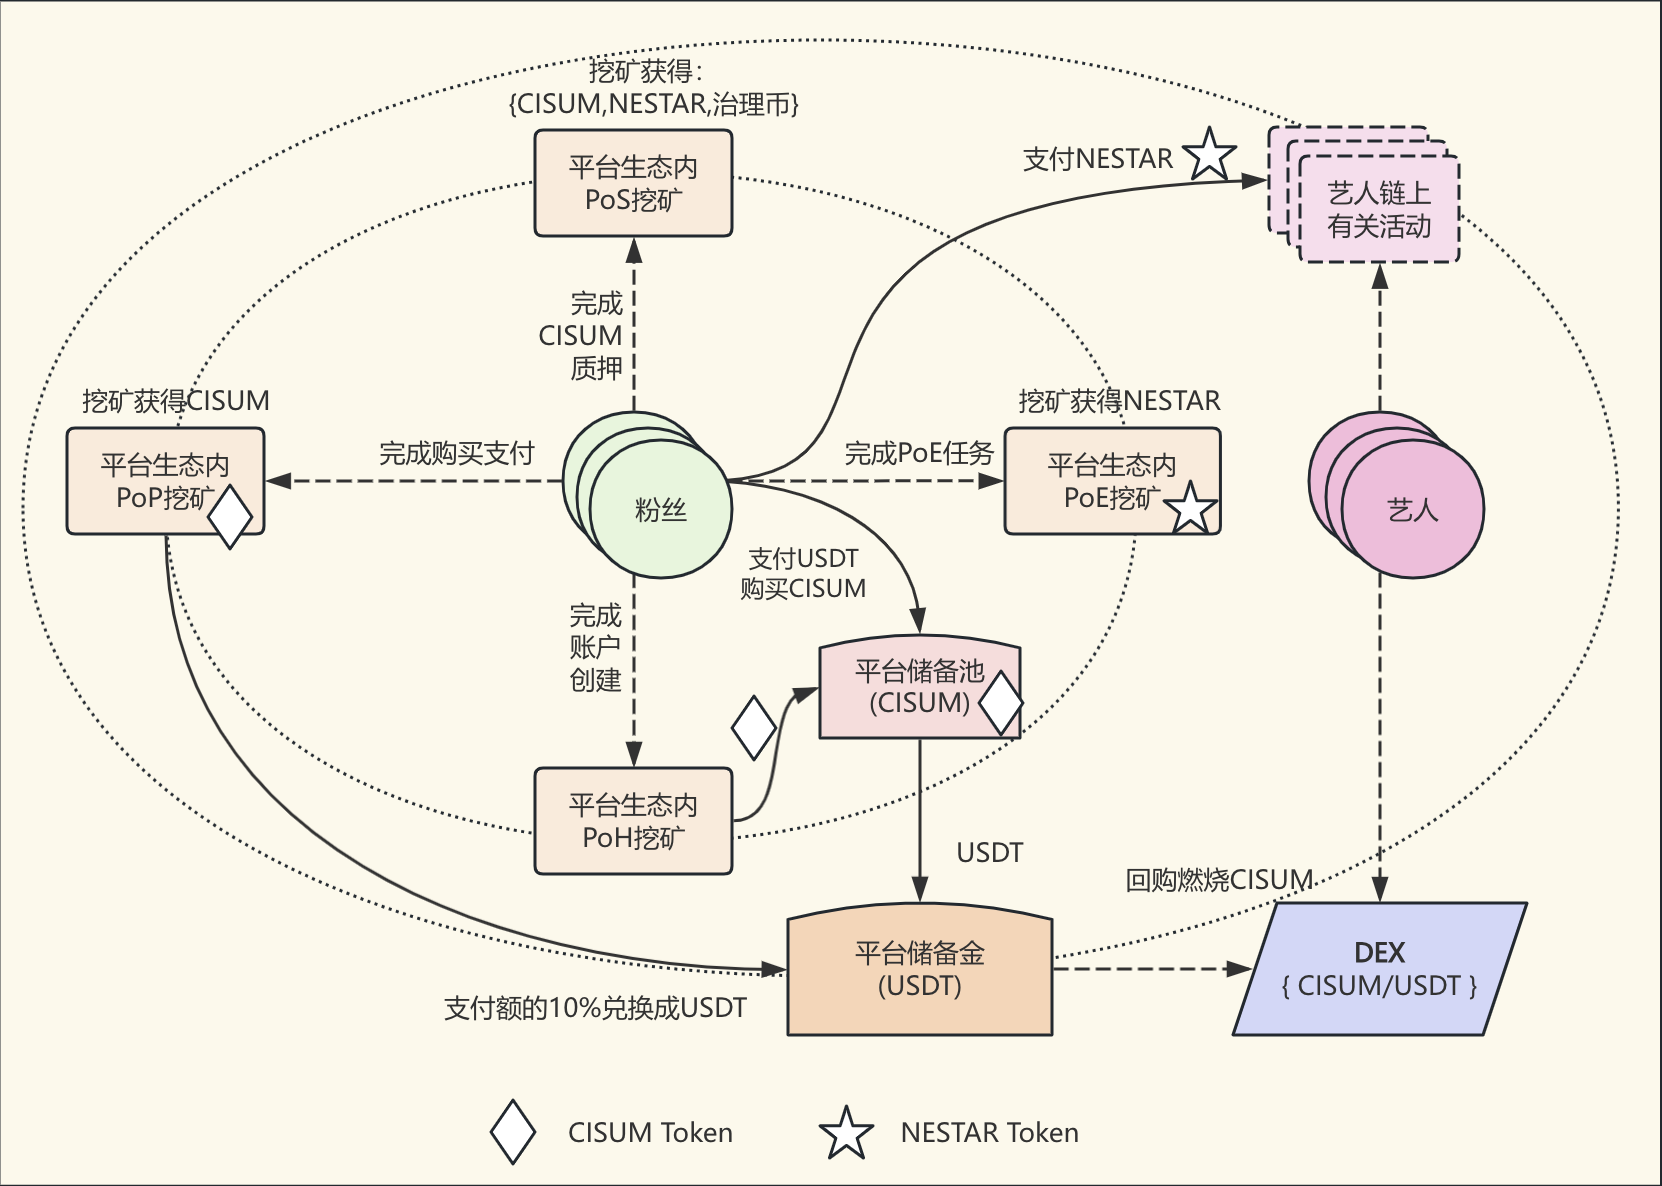
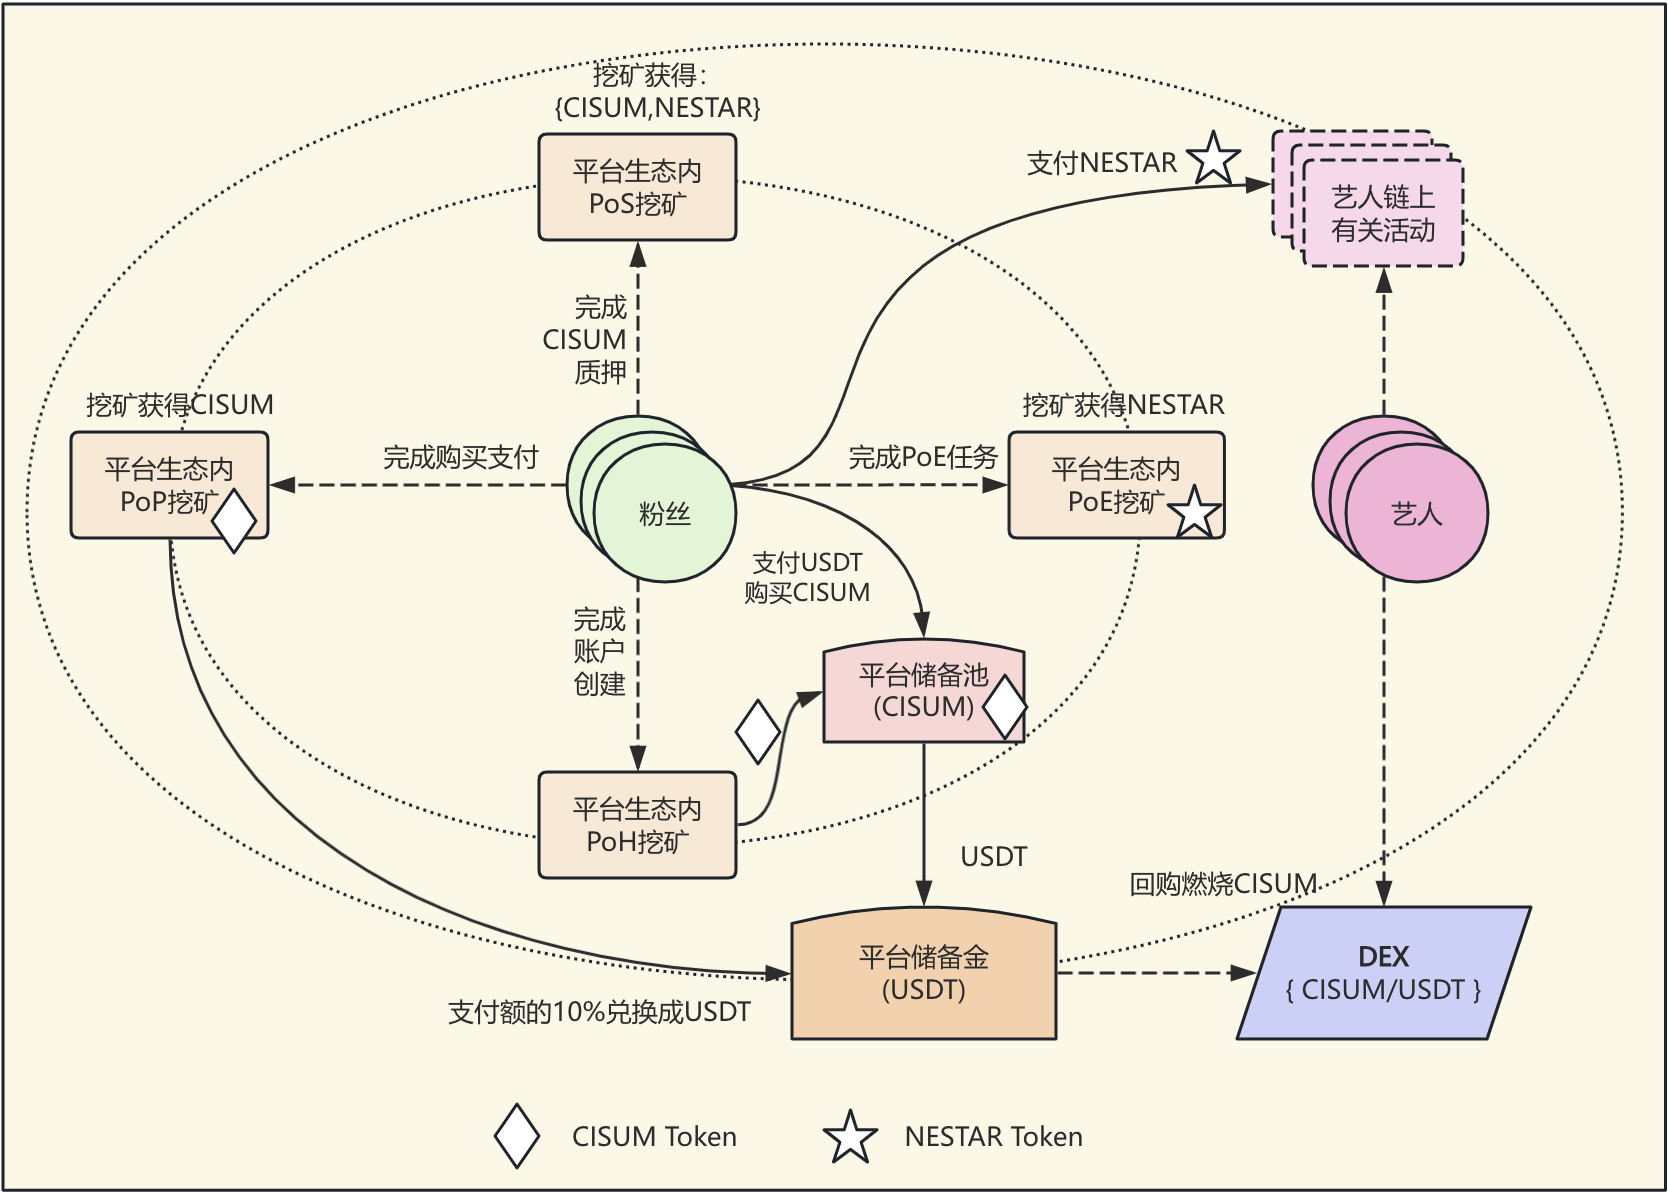
refine CN WP

diff --git a/cisum.whitepaper.cn.md b/cisum.whitepaper.cn.md
@@ -27,46 +27,42 @@
 - `重建藝人歸屬感`：通過簽約藝人模式，建立平台與藝人的深度綁定關係;
 - `增強粉絲粘性`：通過多元化互動和收益分享，提升粉絲對平台的忠誠度;
 - `多元化收益模式`：整合訂閱、廣告、周邊、演出等多種收入來源;
-- `實用價值支撐`：基於實際收入的 `10%` 綁定機制，確保代幣價值有實際支撐;
+- `實用價值支撐`：基於實際收入部分的綁定機制，確保代幣價值有實際支撐;
 
-核心流程包括藝人發現與選拔（web2 方法 + AI 分析）、藝人培養與發展（投融資 + 培訓 + 線下巡演 + RWA)、明星成就與商業化（全球巡演 + 品牌合作 + 周邊產品銷售）、數字巨星與元宇宙擴展（IP RWA + 虛擬演唱會 + 鏈遊）。
+核心流程包括藝人發現與選拔（web2 方法 + AI 分析）、藝人培養與發展（投融資 + 培訓 + 線下巡演 + RWA）、明星成就與商業化（全球巡演 + 品牌合作 + 周邊產品銷售）、數字巨星與元宇宙擴展（IP RWA + 虛擬演唱會 + 鏈遊）。
 
 ## 1.3 CISUM的三大核心策略
 
 **CISUM** 利用 Web3 與 AI 技術，通過三大核心策略賦能年輕藝術家實現明星夢想：
 
-1. **萬物代幣化**
+1. **萬物皆可代幣化**
 
 | 代幣       | 類型 | 使用/權益/收益                     | 獲取方式                     |
 |------------|------|------------------------------------|-----------------------------|
-| `CISUM`    | FT   | 平台級代幣，用於激勵生態系統貢獻者和支持者 | 通過私募或去中心化/中心化交易所 |
-| `NESTAR`   | NFT  | 用作在服務/內容/產品消費的信用點數，可參訪搶免費門票 | 通過質押 CISUM 鑄造或參與 `PoE` 活動 |
+| `CISUM`    | FT   | 平台級代幣，用於激勵生態系統貢獻者和支持者 | 通過参与私募或`PoH` |
+| `NESTAR`   | FT  | 用作在服務/內容/產品消費的積分，可參訪搶免費門票 | 通過質押 CISUM 鑄造或參與 `PoE` 活動 |
 | `Badge NFTs`| NFT  | 以 `普通`/`銀級`/`金級`/`白金` 等徽章類型表示會員等級 | 當消耗的 `NESTAR` 數量達到指定水平時可領取 |
 | `Ticket NFTs`| NFT | 每場演出擁有獨特的門票 NFT 集合 | 通過搶票活動或直接購買獲得 |
 
-2. **萬物挖礦**
+2. **萬物皆可挖礦**
 
-**CISUM** 通過 Web3 提供多種挖礦機制，使用戶能夠獲得獎勵。從帳戶創建到參與、支付和質押，每項活動都以 `CISUM` 或 `STAR` 代幣形式創造價值，為藝術家和粉絲建構一個充滿活力的生態系統。
+**CISUM** 通過 Web3 提供多種挖礦機制，使用戶能夠獲得獎勵。從帳戶創建到參與、支付和質押，每項活動都以 `CISUM` 或 `NESTAR` 代幣形式創造價值，為藝術家和粉絲建構一個充滿活力的生態系統。
 
 | 挖礦類型             | 描述                                                           |
 |-----------------------|-------------------------------------------------------------|
-| `PoH`：註冊證明      | 每個新帳戶註冊將新鑄造價值 一定金额 的 `CISUM` 代幣和 100 個 `NESTAR` 積分     |
-| `PoE`：參與證明      | 參與藝術家或項目互動活動以挖掘 `NESTAR` 代幣                         |
-| `PoP`：支付證明      | 付款者將獲得相當於支付金額 `10%` 的新鑄造 `CISUM` 代幣                |
-| `PoS`：質押證明      | `CISUM` 代幣質押者將根據選定的鎖定期間獲得固定年化收益率的利息獎勵，獎勵為新鑄造的 `CISUM` 代幣或 Nestar 積分 |
+| `PoH`：註冊證明      | 每個新帳戶註冊將新鑄造價值`$20`美金的 `CISUM` 代幣放入`平台儲備池`提供給生態用戶購買取得，和100个 `NESTAR` 積分直接獎勵給新用戶 |
+| `PoE`：參與證明      | 參與藝術家或項目互動活動以挖掘 `CISUM` 和 `NESTAR` 代幣                         |
+| `PoP`：支付證明      | 付款者將獲得相當於支付金額的`10%`同等价值换算成相应数量 `CISUM` 代幣                |
+| `PoS`：質押證明      | `CISUM` 代幣質押者將根據選定的鎖定期間獲得固定年化收益率的利息獎勵，獎勵為生態挖礦份額內的 `CISUM` 代幣或 `NESTAR` 積分 |
 
 > [!NOTE]
-> 範例 PoE 活動包括但不限於以下內容：
->  - 每日簽到藝術家社群
->  - 邀請他人加入藝術家社群
->  - 在社交媒體上發布/分享藝術家活動
->  - 播放藝術家音樂
->  - 與他人分享藝術家音樂
->  - 購買藝術家相關產品
+> 1. PoH 的註冊是採用了 `FullOn` 公鏈上部具體 `RWID` 技術，也就是綁定了手機或其它社交因子的鏈上帳戶，用來簡化用戶帳戶創建和確保是真實用戶綁定了鏈上帳戶，這樣可以有效避免女巫攻擊而產生的隨意釋放；
+> 2. `$20`美金換算`CISUM`的數量根據平台在FullOn公鏈生態提供的`DEX`來獲取當前價格後計算得來；
+> 3. 平台儲備池的功能是存放`PoH`行為而新鑄造的`CISUM`，用戶可以按照`DEX`的當前價格直接購買而無需支付手續費，在`DEX`裡面購買需要支付交易手續費。
 
 3. **粉絲投資藝術家**
 
-粉絲可以通過參與短期項目（例如現場演出活動）、中長期事業（5-10 年，支持藝術家成為明星）或終身項目（例如服務於線上或鏈上社區的 3D 數字自主 AI 智能體）的籌資，成為他們喜愛的藝術家的投資者和股東。通過投資，粉絲將獲得代表股份的 NFT 代幣，並賺取相當於項目收入 10% 的 CISUM。此外，NFT 持有者可以對其投資項目進行治理決策投票。
+粉絲可以通過參與短期項目（例如現場演出活動）、中長期事業（5-10 年，支持藝術家成為明星）或終身項目（例如服務於線上或鏈上社區的 3D 數字自主 AI 智能體）的籌資，成為他們喜愛的藝術家的投資者和股東。通過投資，粉絲將獲得代表股份的 NFT 代幣，並賺取相當於項目收入部分的 CISUM。此外，NFT 持有者可以對其投資項目進行治理決策投票。
 
 ## 1.4 CISUM的定位與願景
 
@@ -89,8 +85,8 @@
 
 > [!NOTE]
 > 1. 隨著平台擴展至全球市場，可建立任意數量的藝術家社群。
-> 2. 每個藝術家社群需將其平台收入的 10% 作為對平台基金的貢獻。
-> 3. 平台需使用平台基金回購並燃燒 CISUM 代幣，以創造持續的通縮效應。
+> 2. 每個藝術家社群需將其平台收入的 10% 作為對`平台储备金`的貢獻。
+> 3. 平台需使用`平台储备金`回購並燃燒 CISUM 代幣，以創造持續的通縮效應。
 
 # 3. CISUM 代幣分配
 
@@ -111,7 +107,7 @@
 | 私募融資           | 15%     | 15億 CISUM           | 18個月鎖定期，18個月線性解鎖    | 分配給私募早期投資者，設有歸屬期以防止市場拋售。    |
 | 基金會             | 12%     | 12億 CISUM           | 無                          | 用於平台開發、研究及基金會治理的社群活動。         |
 | 策略儲備           | 4%      | 4億 CISUM            | 無                          | 為未預見的機會及平台穩定措施保留。                |
-| 社群空投           | 3%      | 3億 CISUM            | 無                          | 分發給早期用戶及社群成員以促進平台採用和參與。      |
+| 社区空投           | 3%      | 3億 CISUM            | 無                          | 分發給早期用戶及社群成員以促進平台採用和參與。      |
 | 生態挖礦           | 51%     | 51億 CISUM           | 無                          | 通過頭部、支付及質押證明挖掘，以激勵參與及生態發展。 |
 
 ## 3.3 CISUM 代幣流通計劃
